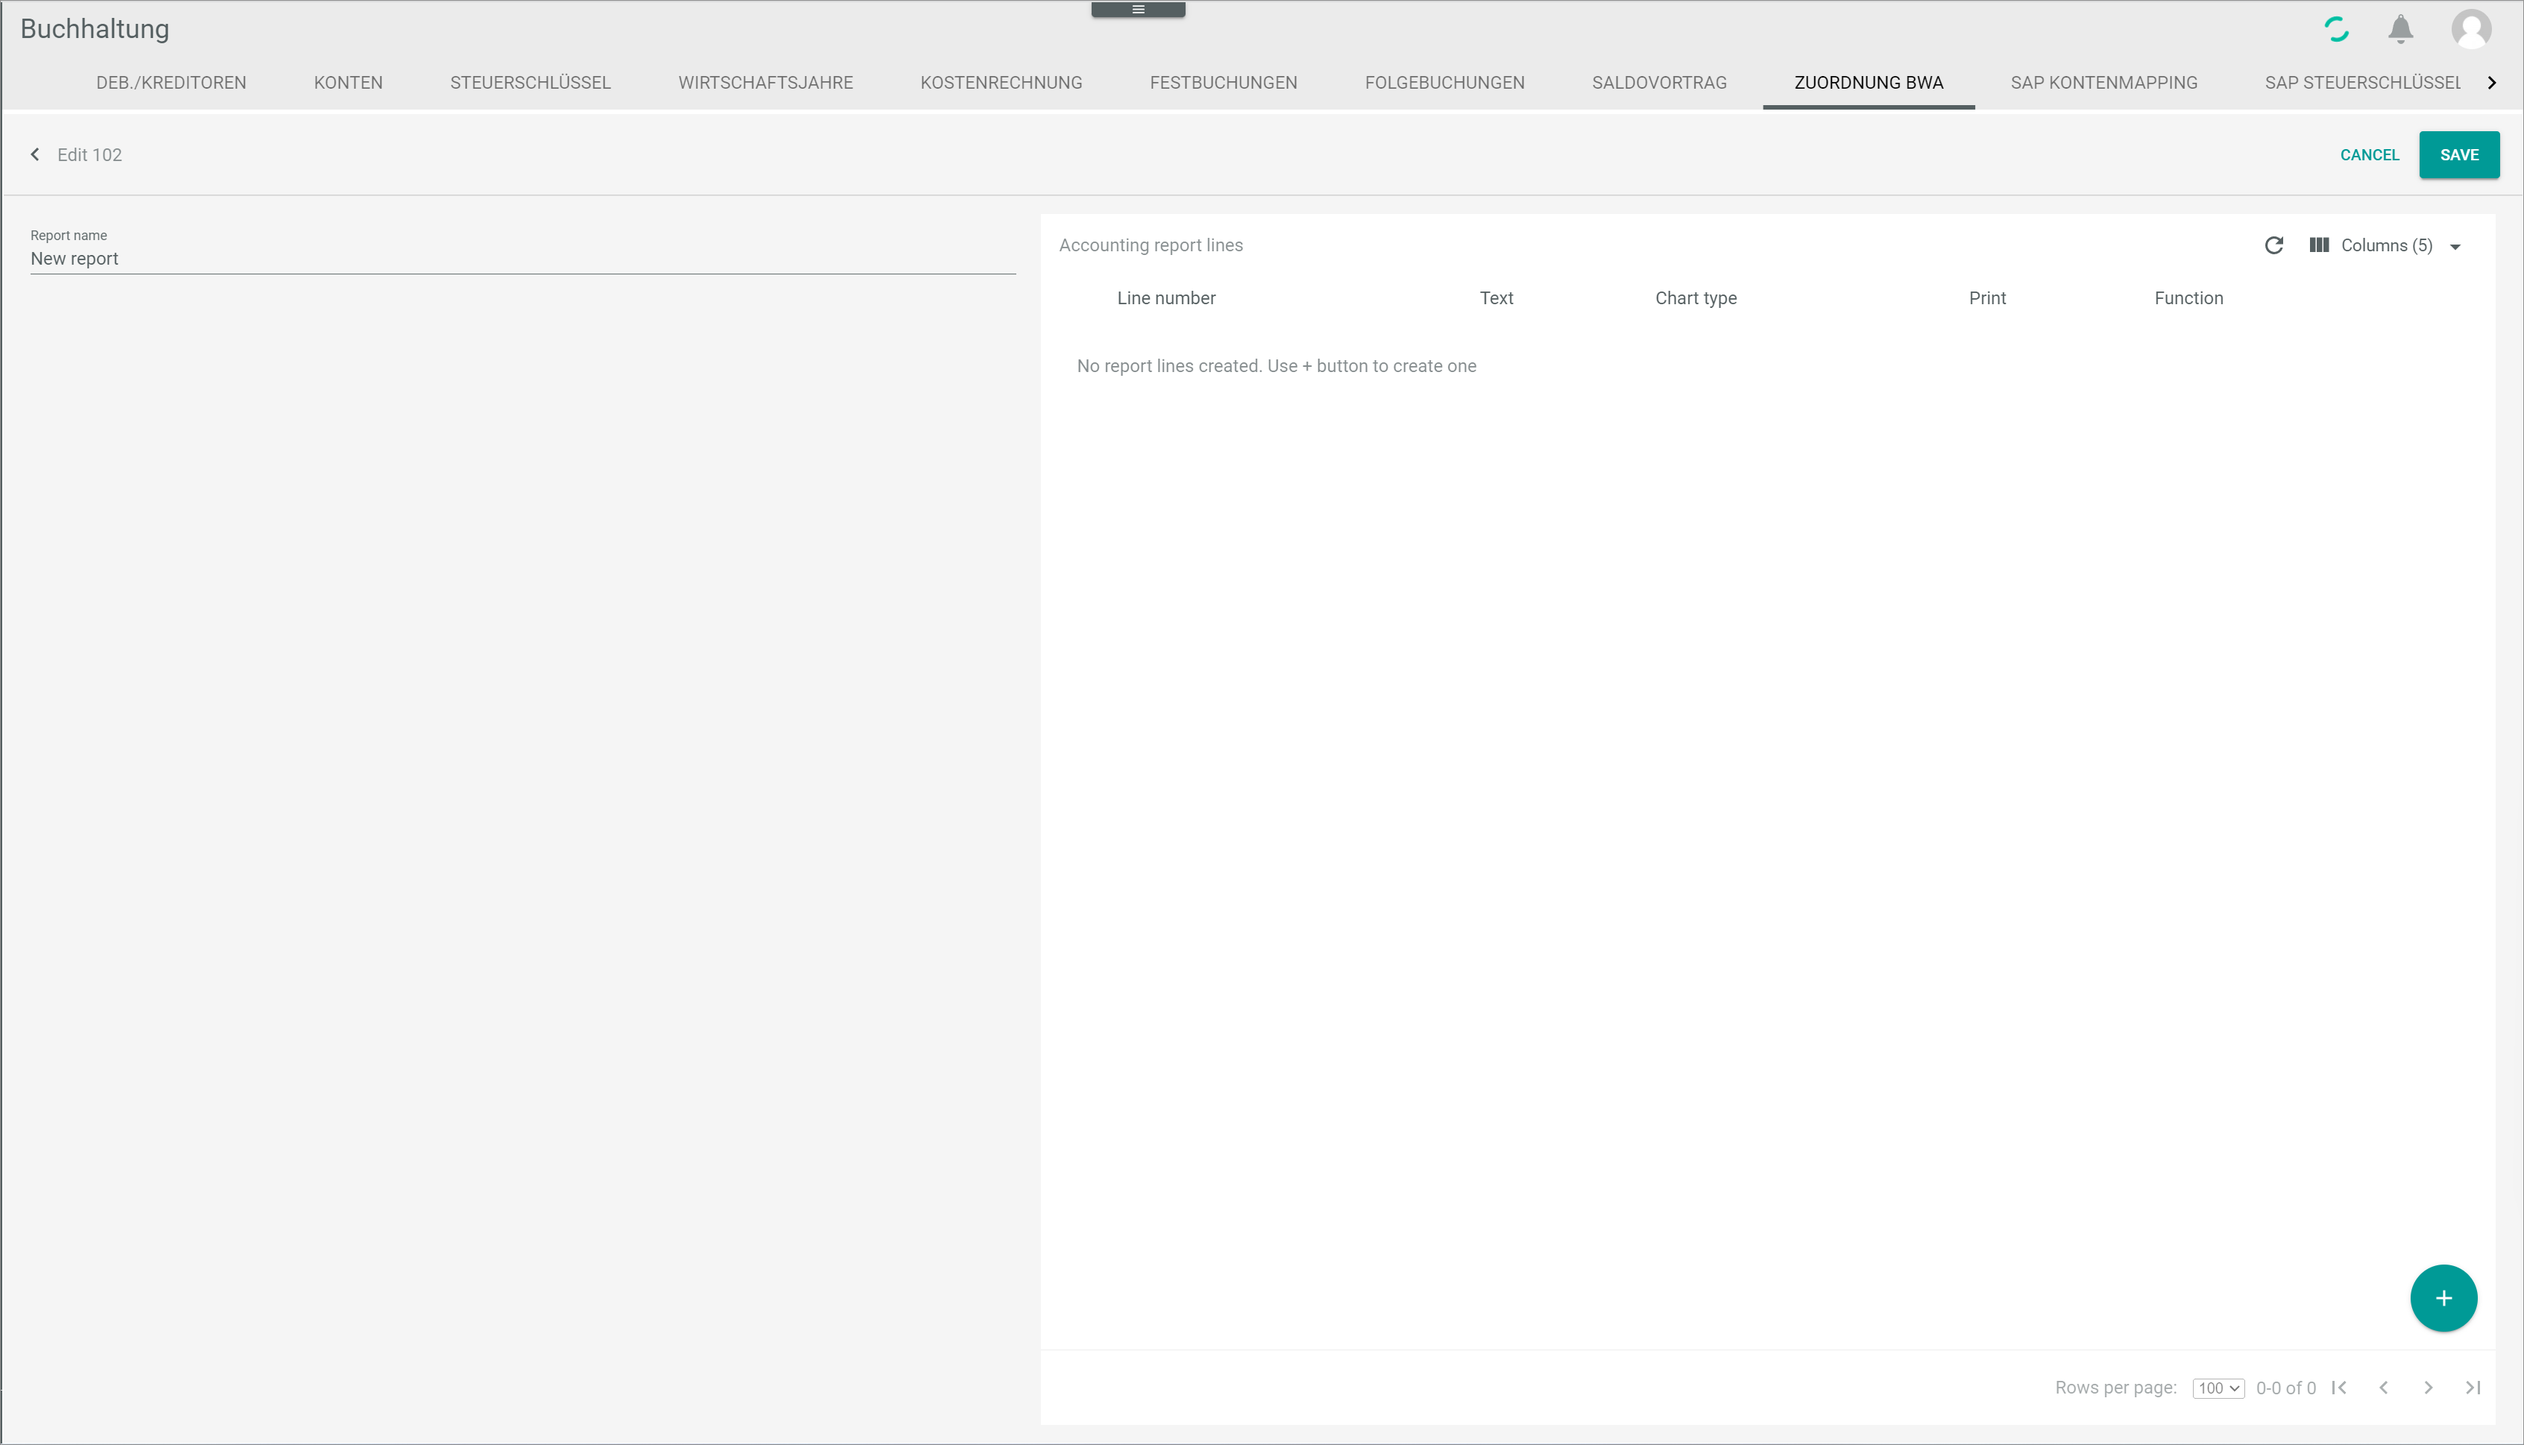
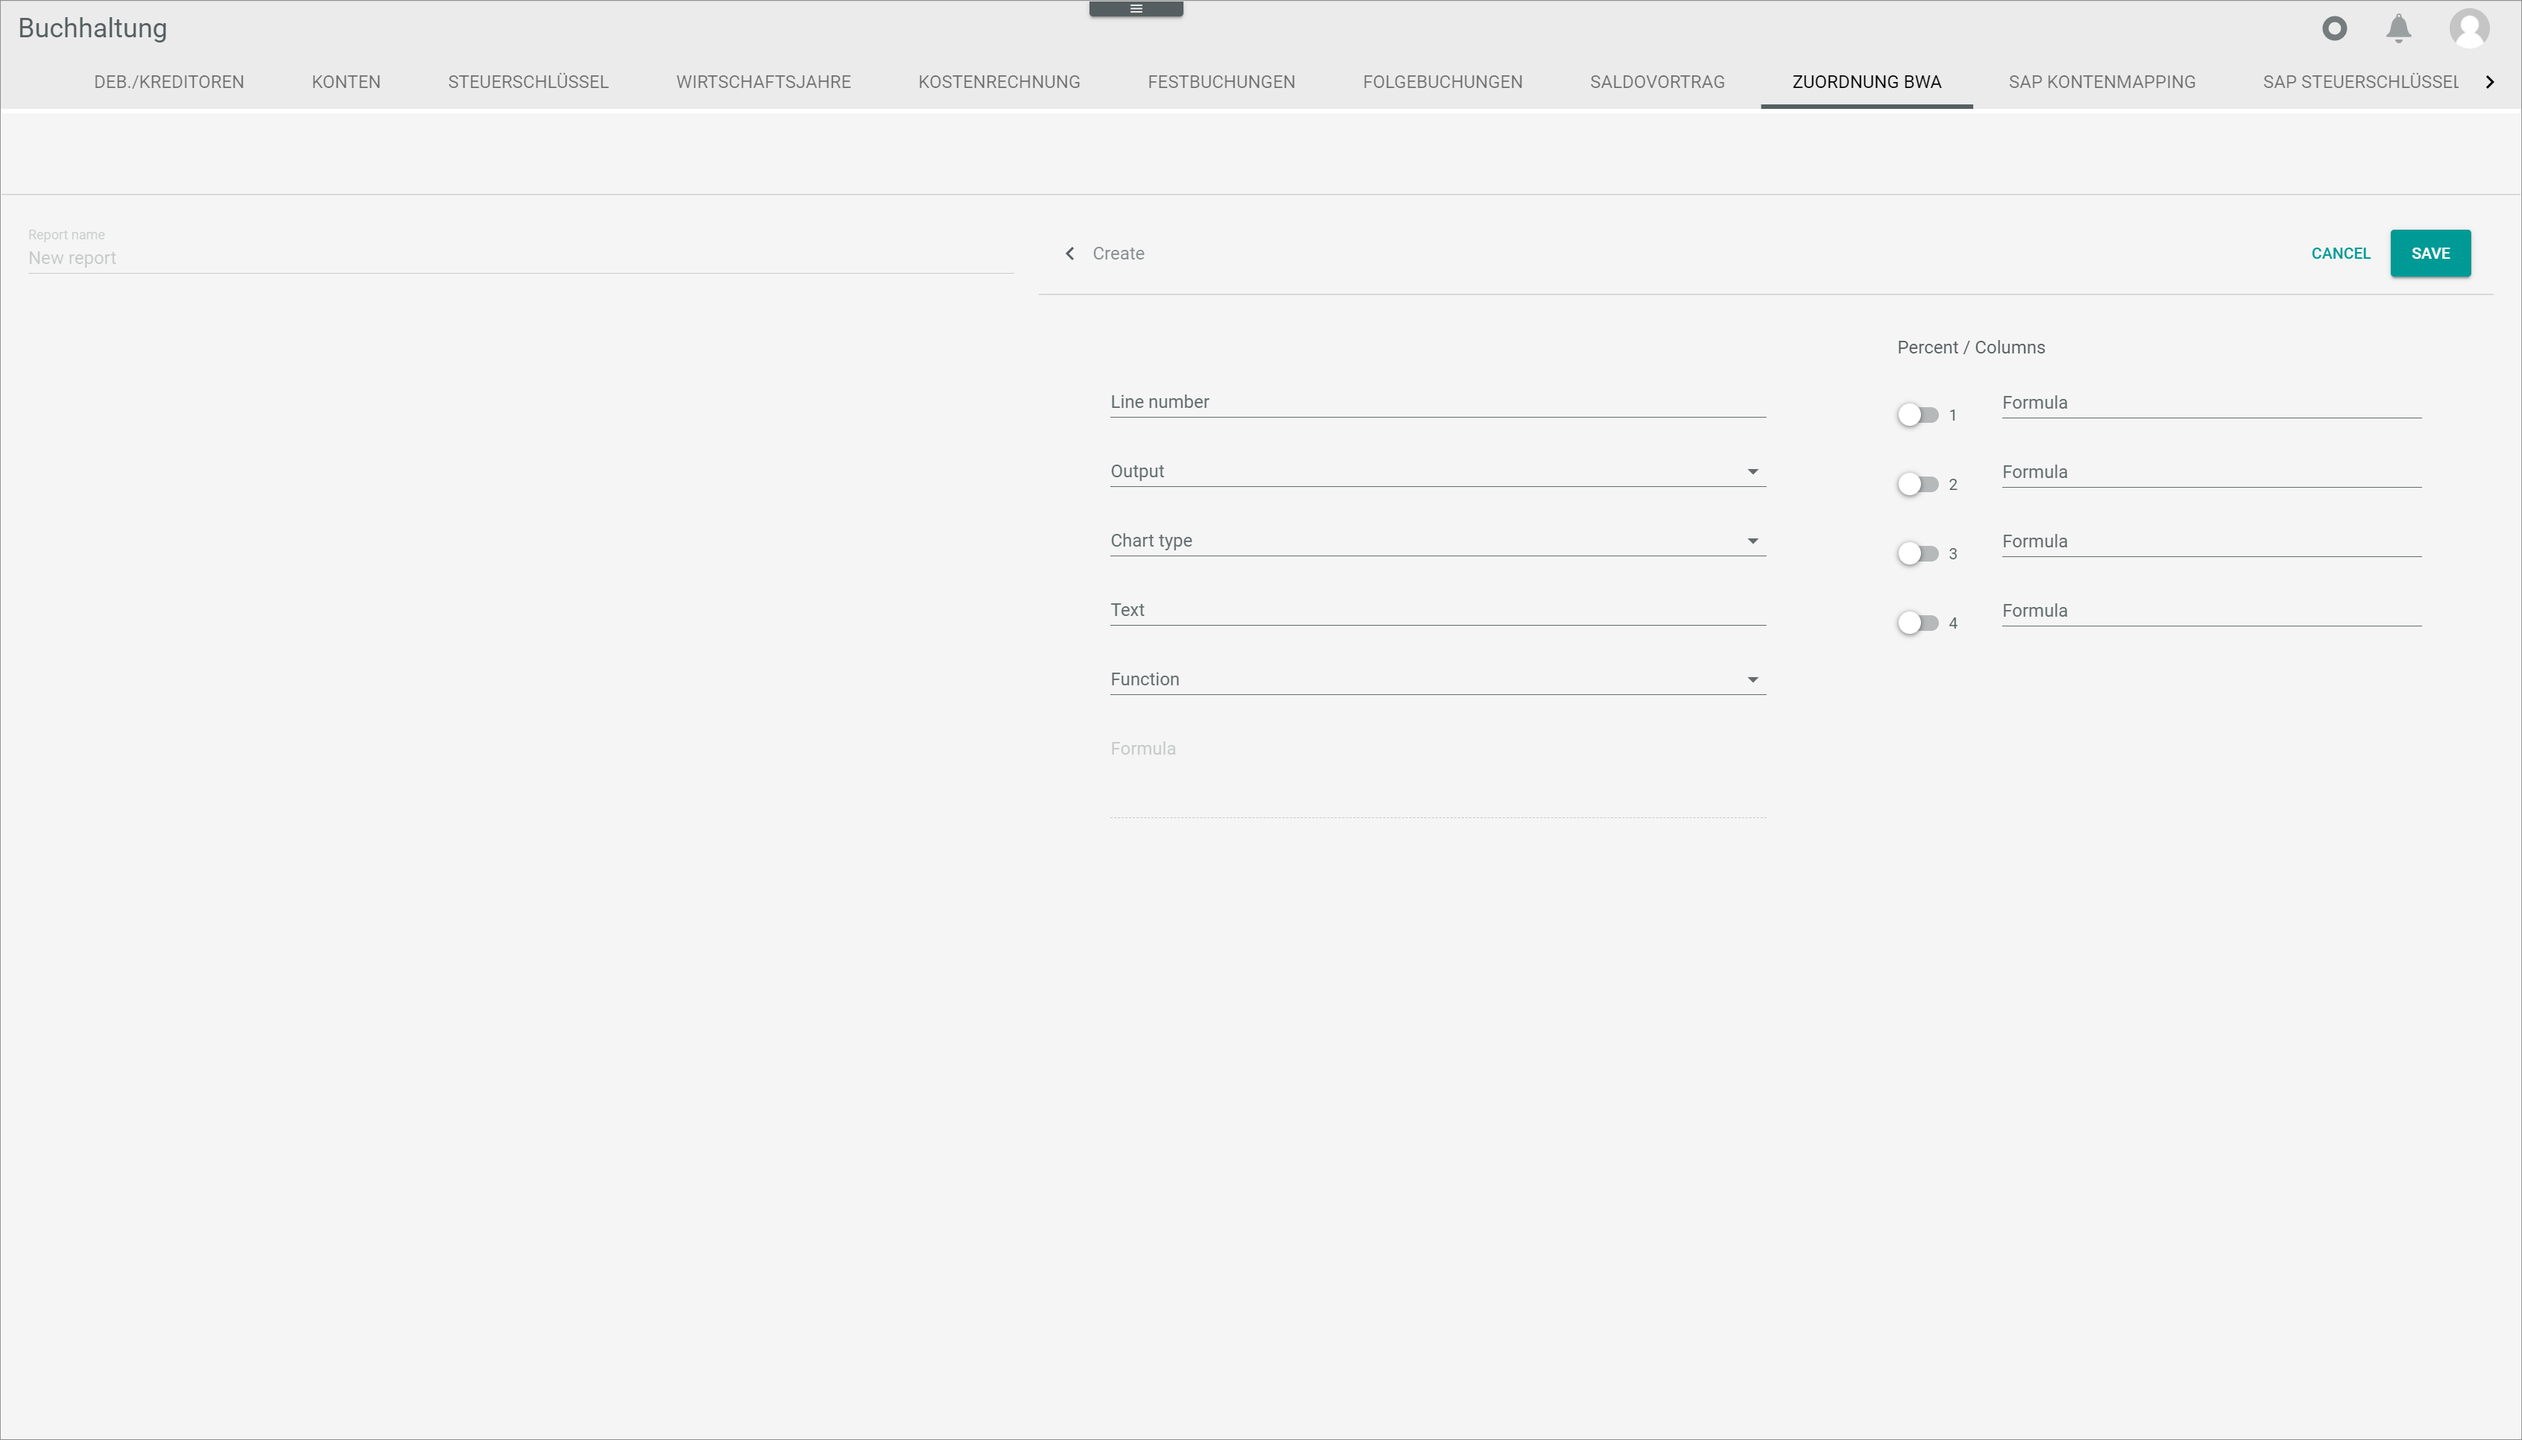
ACD-423
BWA reports finished, screeshots added/changed

diff --git a/Accounting/Integration/07_ManageBWAReports.md b/Accounting/Integration/07_ManageBWAReports.md
@@ -2,15 +2,15 @@
 
 # Manage the BWA reports
 
+[comment]: <> (BWA reports or Accounting Reports? See Accounting Reports view -> ZUORDNUNG BWA tab)
+
 The business evaluation (BWA) is a reporting system based on company financial data and provides information about the company's current cost and revenue situation and, consequently, its  profitability. The BWA report serves as a basis for managerial future decisions, and it is widely used by capital investors and credit institutions for company assessment. The BWA is an essential planning and controlling tool for the company's future development.
 
-The *BWA assignment* tab in the *Accounting* module enables to create a new BWA report, to copy one of the predefined system report or to delete any of them. All available reports can be completely customized.
+The *BWA assignment* tab in the *Accounting* module enables to create a new BWA report, to copy one of the predefined system reports and edit it, or to delete any of them. All available reports can be completely customized.
 
-Be aware, however, that the reports use the standard accounts set up in the *Accounting* module configuration process, see [Charts of accounts](01_RunAccountingWizard.md#chart-of-accounts). If the accounts have been customized manually, they will have to be set up again individually for the BWA reports. Otherwise, the BWA reports will not recognized them.
+ > [Warning] Be aware that any deletion is permanent and cannot be undone, and any changes made will overwrite the preset values.
 
-[comment]: <> (How?)
-
-- information about the consequences of deletion
+When customizing existing reports, bear in mind that the reports use the standard accounts set up in the *Accounting* module configuration process, see [Charts of accounts](01_RunAccountingWizard.md#chart-of-accounts). If the accounts have been customized manually, they will have to be set up again individually for the BWA reports. Otherwise, the BWA reports will not recognized them. For detailed information, see [Reference](01_filename.md).
 
 
 ## Create a BWA report
@@ -24,11 +24,13 @@ You can create a BWA report that is not yet available in the system.
 
 ### Procedure
 
+#### Create a BWA report
+
 *Accounting > Select the fiscal year > Settings > BWA ASSIGNMENT tab*
 
 ![Create a BWA report](/Assets/Screenshots/Accounting/Settings/BWAReports/Create_BWAReport.png "[Create a BWA report]")
 
-1. Click the ![Add](/Assets/Icons/Plus01.png "[Add]") (Add) button in the bottom right corner.  
+1. Click the ![Add](/Assets/Icons/Plus01.png "[Add]") (Add) button on the right bottom corner.  
 The *Create* view is displayed.
 
 2. Enter a name in the *Report name* field.
@@ -36,19 +38,28 @@ The *Create* view is displayed.
 3. Click the [SAVE] button.  
 The new BWA report has been saved.
 
-4. Click on the newly created report in the list to add the desired reporting lines.
 
-  ![Create a report lines](/Assets/Screenshots/Accounting/Settings/BWAReports/Create_ReportLines.png "[Create report lines]")
+#### Create accounting report lines in a BWA report
 
-5. Click the ![Add](/Assets/Icons/Plus01.png "[Add]") (Add) button in the bottom right corner.  
+*Accounting > Select the fiscal year > Settings > BWA ASSIGNMENT tab*
+
+![BWA report created](/Assets/Screenshots/Accounting/Settings/BWAReports/BWAReport_Created.png "[BWA report created]")
+
+1. Click the newly created report in the list.  
+The *Accounting report lines* section is displayed.
+
+  ![Add report lines](/Assets/Screenshots/Accounting/Settings/BWAReports/Add_ReportLines.png "[Add report lines]")
+
+2. Click the ![Add](/Assets/Icons/Plus01.png "[Add]") (Add) button on the bottom right corner.  
 The *Create* section is displayed.
 
-  ![Add a BWA report](/Assets/Screenshots/Accounting/Settings/BWAReports/Add_ReportLines.png "[Add a BWA report]")
+  ![Create report lines](/Assets/Screenshots/Accounting/Settings/BWAReports/Create_ReportLines.png "[Create report lines]")
 
-6. Click the [SAVE] button.  
+3. Enter any relevant information in the corresponding fields. You can also add different formulas to it. For detailed information, see [User Interface Accounting BWA ASSIGNMENT](/Accounting/UserInterface/00_UserInterface.md).
+
+4. Click the [SAVE] button.  
 The new report lines have been saved in the report.
 
-[comment]: <> (Gehört das hier oder Verweis auf User Interface?)
 
 ### Next steps
 
@@ -64,39 +75,72 @@ The new report lines have been saved in the report.
 
 ## Edit a BWA report
 
-You can edit an existing BWA report to adapt it to your needs.
+You can edit an existing BWA report to make any necessary changes.
 
- > [Info] It is highly recommended to make a copy of an existing report and make all necessary adjustments.
+ > [Warning] Be aware that any changes made to an existing BWA report will overwrite the existing values. If you are taking one of the predefined system reports as a basis, it is highly recommended to make a copy of it first. For detailed information, see [User Interface Accounting BWA ASSIGNMENT](/Accounting/UserInterface/00_UserInterface.md).
 
 ### Prerequisites
 
 - The accounting is configured via the configuration wizard, see [Run the Accounting Wizard](01_RunAccountingWizard.md).
 - A valid fiscal year is created, see [Create fiscal year](04_ManageFiscalYear.md#create-a-fiscal-year).
-
+- A BWA report is created, see [Create a BWA report](#create-a-BWA-report).
 
 ### Procedure
 
-- Checkbox marked
-- Menü oben: edit, copy, delete
-
-
-#### Edit an existing BWA report
-
-#### Copy and edit an existing BWA report
-
+#### Edit a BWA report
 
 *Accounting > Select the fiscal year > Settings > BWA ASSIGNMENT tab*
 
-![Edit a BWA report](/Assets/Screenshots/Accounting/Settings/FixedBookings/Edit_BWAReport.png "[Edit a BWA report")
+![Edit a BWA report](/Assets/Screenshots/Accounting/Settings/BWAReports/Edit_BWAReport.png "[Edit a BWA report]")
 
-1. Click the
+1. Select the BWA report to be edited by clicking the checkbox on the left.   
+The toolbar is displayed on the right upper corner.
 
-Click the [] button
+2. Click the ![Edit](/Assets/Icons/Edit01.png "[Add]") (Edit) button to edit the BWA report.  
+The *Edit* section is displayed.
 
-2. Click
+3. Click the *Report name* field and make any necessary changes.
 
-3. Click the [SAVE] button.   
-The edited BWA report has been saved.
+4. Click the *Columns* button on the right upper corner.   
+The columns bar is displayed. You can add or delete columns, and change their order by clicking and moving them with the mouse.
+
+  ![Edit BWA report layout](/Assets/Screenshots/Accounting/Settings/BWAReports/Edit_BWAReportLayout.png "[Edit BWA report layout]")
+
+5. Click the [APPLY] button.   
+The changes will be applied.
+
+  > [Info] The width of the individual columns in the table header can also be modified using the mouse.
+
+6. Click the [SAVE] button to save the changes.   
+The existing BWA report has been changed.
+
+
+#### Edit accounting report lines in a BWA report
+
+*Accounting > Select the fiscal year > Settings > BWA ASSIGNMENT tab*
+
+![Edit a BWA report](/Assets/Screenshots/Accounting/Settings/BWAReports/Edit_BWAReport.png "[Edit a BWA report]")
+
+1. Select the BWA report to be edited by clicking the checkbox on the left.   
+The toolbar is displayed on the right upper corner.
+
+2. Click the ![Edit](/Assets/Icons/Edit01.png "[Add]") (Edit) button to edit the BWA report.  
+The *Accounting report lines* section is displayed.
+
+3. Select the report line to be edited by clicking the checkbox on the left.  
+The toolbar is displayed on the right upper corner.
+
+  ![Edit report lines](/Assets/Screenshots/Accounting/Settings/BWAReports/Edit_ReportLines.png "[Edit report lines]")
+
+4. Click the ![Edit](/Assets/Icons/Edit01.png "[Add]") (Edit) button to edit the selected accounting report line.  
+The *Edit* section is displayed.   
+
+  > [Warning] Be aware that any changes made to an existing BWA report will overwrite the existing values.
+
+5. Click the [SAVE] button to save the changes.   
+The existing BWA report has been changed.
+
+[comments]: <> (clear with HG: you can also edit the BWA report/the accounting report lines by clicking on the report name or line name -> same editing options as described above are displayed. Shall we describe it as an alternative or better not?)
 
 ### Next steps
 
@@ -108,32 +152,58 @@ The edited BWA report has been saved.
 - [User Interface Accounting](/Accounting/UserInterface/00_UserInterface.md)
 
 
-## Delete a fixed booking
 
-You can delete an existing BWA report.
+## Delete a BWA report
+
+You can delete an existing BWA report, either one of the predefined system reports or a newly created one.
+
 
 ### Prerequisites
 
 - The accounting is configured via the configuration wizard, see [Run the Accounting Wizard](01_RunAccountingWizard.md).
 - A valid fiscal year is created, see [Create fiscal year](04_ManageFiscalYear.md#create-a-fiscal-year).
+- A BWA report is created, see [Create a BWA report](#create-a-BWA-report).
 
 
 ### Procedure
 
+#### Delete a BWA report
+
 *Accounting > Select the fiscal year > Settings > BWA ASSIGNMENT tab*
 
-![Delete a BWA report](/Assets/Screenshots/Accounting/Settings/FixedBookings/Delete_BWAReport.png "[Delete a BWA report")
+![Delete a BWA report](/Assets/Screenshots/Accounting/Settings/BWAReports/Delete_BWAReport.png "[Delete a BWA report]")
 
-1. Click
+1. Select the BWA report to be deleted by clicking the checkbox on the left.   
+The toolbar is displayed on the right upper corner.
 
-2. Click on the existing BWA report to be deleted.
- - Checkbox marked
- - Menü oben: edit, copy, delete
+  > [Warning] Be aware that the existing BWA report will be deleted permanently.
+
+2. Click the ![Delete](/Assets/Icons/Trash03.png "[Delete]") (Delete) button to delete the BWA report.  
+The selected BWA report is deleted.
+
+
+#### Delete accounting report lines in a BWA report
+
+*Accounting > Select the fiscal year > Settings > BWA ASSIGNMENT tab*
+
+![Delete a BWA report](/Assets/Screenshots/Accounting/Settings/BWAReports/Delete_BWAReport.png "[Delete a BWA report]")
+
+1. Select the BWA report to be edited by clicking the checkbox on the left.   
+The toolbar is displayed on the right upper corner.
+
+2. Click the ![Edit](/Assets/Icons/Edit01.png "[Add]") (Edit) button to edit the BWA report.  
+The *Accounting report lines* section is displayed.
+
+  ![Delete report lines](/Assets/Screenshots/Accounting/Settings/BWAReports/Delete_ReportLines.png "[Delete report lines]")
+
+3. Select the report line to be edited by clicking the checkbox on the left.  
+The toolbar is displayed on the right upper corner.
 
   > [Warning] Be aware that the existing fixed booking will be deleted permanently.
 
-3. Click the [DELETE] button.  
- The selected BWA report is deleted.
+4. Click the ![Delete](/Assets/Icons/Trash03.png "[Delete]") (Delete) button to delete the selected accounting report line.  
+The selected accounting report line is deleted.   
+
 
 ### Next steps
 
